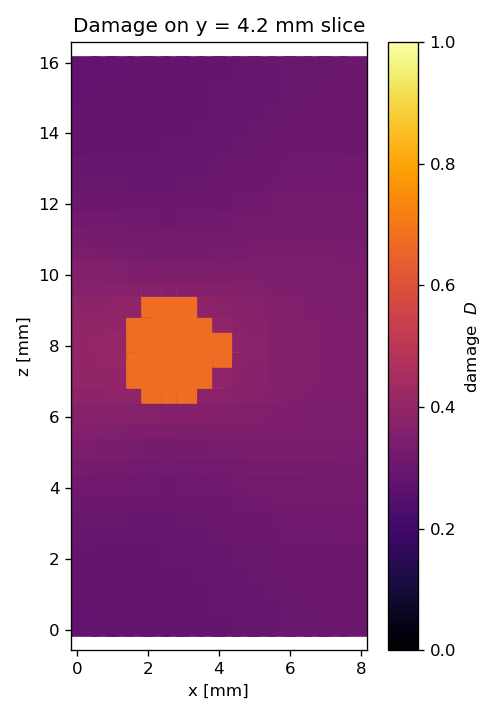
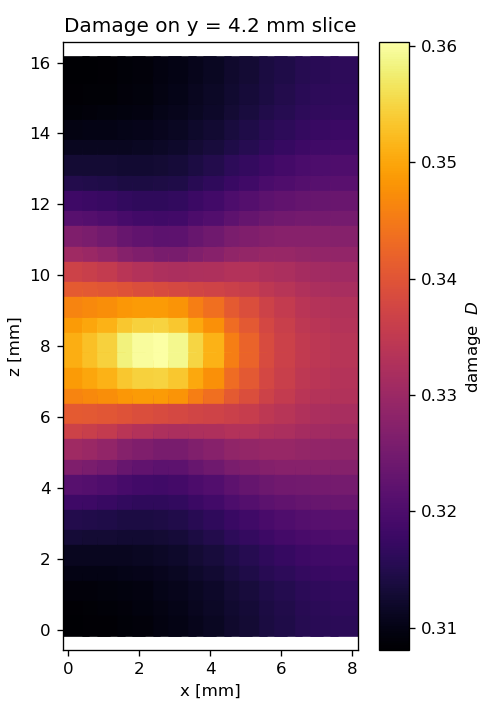
TestDamageModel: model the flaw as weaker (lower E0), not pre-damaged
A flaw is a weaker region, not already-failed material: seeding D>0 was wrong.
Instead scale the Lame parameters (lam, mu) by 0.8 inside the flaw sphere
(reduced E0, same nu and same damage threshold kappa0). Under load the softer
flaw strains more, reaches kappa0 first and nucleates damage there. Since the
initial state is now undamaged, scale_to_onset applies and jumps the first step
to onset.

Regenerate the plots (slice colour range autoscaled to reveal the mild pre-peak
concentration) and update the README physics/description accordingly.

diff --git a/examples/TestDamageModel/test2.py b/examples/TestDamageModel/test2.py
@@ -5,11 +5,12 @@ Multi-element test of the smoothed continuum damage model of
 
 A rectangular prism is loaded in displacement-controlled uniaxial compression
 (smooth platens: only the axial displacement is prescribed on the top/bottom
-faces, lateral expansion is free). A small pre-damaged flaw is seeded off-centre
-so that damage nucleates there and localises into an inclined band rather than
-smearing uniformly -- this exercises the non-local implicit-gradient smoothing,
-the incremental-residual equilibrium solve and the adaptive load stepping that
-the single-element test (test1.py) cannot.
+faces, lateral expansion is free). A small weaker flaw (slightly reduced
+stiffness E0, undamaged) is placed off-centre so that it strains more under load,
+reaches the damage threshold first and nucleates damage that localises rather
+than smearing uniformly -- this exercises the non-local implicit-gradient
+smoothing, the incremental-residual equilibrium solve and the adaptive load
+stepping that the single-element test (test1.py) cannot.
 
 The mesh is resolved to two elements per localisation length l (the paper's
 minimum to resolve the smoothing). The volume-averaged axial stress-strain
@@ -57,19 +58,22 @@ eopts.setPreconditioner(SolverOptions.AMG)
 eopts.setTolerance(1e-8)
 
 # --------------------------------------------------------------------------
-# pre-damaged flaw: raise the history variable kappa (and damage D) in a small
-# off-centre sphere so damage initiates there. State stays consistent because
-# u = 0 => stress = 0 regardless of D.
+# weaker flaw: a small off-centre sphere with slightly reduced stiffness E0 (the
+# Lame parameters lam, mu are scaled by `weak`; nu and the damage threshold
+# kappa0 are unchanged). It is NOT pre-damaged -- under load the softer flaw
+# strains more, reaches the equivalent-strain threshold kappa0 first and so
+# nucleates damage there, which then localises.
 # --------------------------------------------------------------------------
 Xe = Function(domain).getX()                      # element-centre coordinates
 flaw_centre = np.array([0.35 * Lx, 0.5 * Ly, 0.5 * Lz])
 flaw_radius = 1.5 * h
-kappa_flaw = 6.0e-4                               # in (kappa0, kappa_c)
+weak = 0.8                                         # flaw stiffness = 0.8 * E0
 inside = whereNegative(length(Xe - flaw_centre) - flaw_radius)
-model.kappa = model.kappa * (1. - inside) + kappa_flaw * inside
-model.D = model.getDamage(model.kappa)
-print(f"seeded flaw at {flaw_centre*1e3} mm, radius {flaw_radius*1e3:g} mm, "
-      f"initial D_max = {sup(model.D):.3g}")
+factor = 1. - (1. - weak) * inside                # `weak` inside, 1 outside
+model.lam = model.lam * factor
+model.mu = model.mu * factor
+print(f"weaker flaw at {flaw_centre*1e3} mm, radius {flaw_radius*1e3:g} mm, "
+      f"stiffness {weak:g}*E0 inside")
 
 # --------------------------------------------------------------------------
 # boundary conditions: uniaxial compression, smooth platens, minimal lateral
@@ -155,8 +159,11 @@ yc = coords[:, 1]
 ytarget = yc[np.argmin(np.abs(yc - 0.5 * Ly))]     # nearest element-centre layer
 mask = np.abs(yc - ytarget) < 0.25 * h
 plt.figure(figsize=(4.2, 6))
+# autoscale the colour range to the slice so the (mild, pre-peak) concentration
+# at the weaker flaw is visible rather than washed out on a fixed [0, 1] scale.
 sc = plt.scatter(coords[mask, 0] * 1e3, coords[mask, 2] * 1e3, c=Dvals[mask],
-                 marker="s", s=260, cmap="inferno", vmin=0., vmax=1.)
+                 marker="s", s=260, cmap="inferno",
+                 vmin=Dvals[mask].min(), vmax=Dvals[mask].max())
 plt.colorbar(sc, label="damage  $D$")
 plt.xlabel("x [mm]")
 plt.ylabel("z [mm]")

diff --git a/examples/TestDamageModel/README.md b/examples/TestDamageModel/README.md
@@ -124,11 +124,14 @@ available as `model.converged` and `model.last_change`.
 hexahedral prism (element size `h = l/2`, i.e. two elements per localisation
 length `l`, the paper's minimum to resolve the smoothing) loaded in
 displacement-controlled uniaxial compression with smooth platens. A small
-pre-damaged flaw is seeded off-centre (by raising the history variable `kappa`,
-and hence `D`, inside a sphere) so that damage nucleates there and **localises**
-instead of smearing uniformly. This exercises what the single element cannot: the
-non-local Helmholtz smoothing (identity on one element), the incremental-residual
-equilibrium solve, and the adaptive load stepping.
+**weaker flaw** is placed off-centre — a sphere with slightly reduced stiffness
+`E0` (the Lamé parameters are scaled by `0.8`; `nu` and the damage threshold
+`kappa0` are unchanged). It is *not* pre-damaged: under load the softer flaw
+strains more, reaches the equivalent-strain threshold `kappa0` first, and so
+nucleates damage that **localises** there instead of smearing uniformly. This
+exercises what the single element cannot: the non-local Helmholtz smoothing
+(identity on one element), the incremental-residual equilibrium solve, and the
+adaptive load stepping.
 
 Run:
 
@@ -137,8 +140,9 @@ Run:
 Outputs:
 
 - `multi_element_response.png` — volume-averaged axial stress–strain response.
-- `multi_element_damage_slice.png` — damage on the mid-plane (`y = Ly/2`) slice,
-  showing the localised zone and its non-local halo.
+- `multi_element_damage_slice.png` — damage on the mid-plane (`y = Ly/2`) slice
+  (colour range autoscaled), showing the concentration at the flaw and its
+  non-local halo.
 - `multi_element_damage.silo` and per-step `multi_element_step0NN.silo` — damage,
   displacement and axial stress fields for VisIt / ParaView.
 
@@ -146,10 +150,12 @@ Outputs:
 
 ![multi-element damage slice](./multi_element_damage_slice.png)
 
-The driver loads only up to the peak of the response. Pushing
-displacement-controlled loading into the **post-peak softening branch** is
-numerically stiff (snap-back): the staggered scheme stops converging and the
-adaptive bisection sub-steps down toward `min_increment`, making little progress
-(watch the `INFO` bisection messages). Traversing the softening branch robustly
-needs arc-length / load-factor-as-unknown control, which is a possible next
-addition.
+The driver loads only up to the peak of the response, so the localisation is
+still **mild**: damage concentrates at the flaw and forms an incipient band
+across mid-height, but the variation is small (the whole specimen is near the
+threshold at the peak). A sharp, fully-developed band only forms on the
+**post-peak softening branch**, which under displacement control is numerically
+stiff (snap-back): the staggered scheme stops converging and the adaptive
+bisection sub-steps down toward `min_increment`, making little progress (watch
+the `INFO` bisection messages). Traversing the softening branch robustly needs
+arc-length / load-factor-as-unknown control, a possible next addition.
